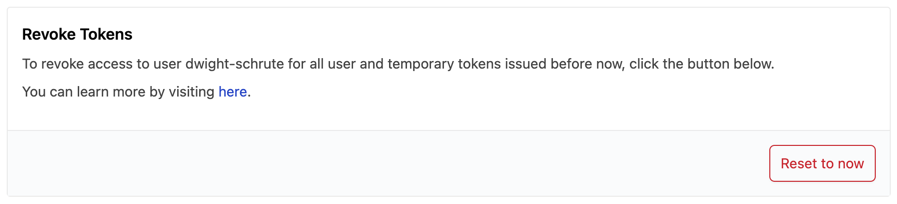
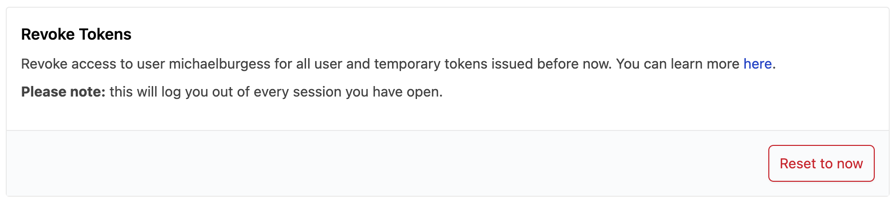
Update user docs

diff --git a/docs/cloud/profile.md b/docs/cloud/profile.md
@@ -38,7 +38,9 @@ You can deactivate or delete a token from the list by clicking the options menu 
 ## Revoking Access
 You will be able to authenticate against your account using either temporary tokens issued via console or [CLI login](/docs/reference/cli/login#steampipe-login), or with [tokens](/docs/cloud/profile#tokens) managed via your profile settings.
 
-If you wish to revoke access to your user for any currently issued token, you can do so by going to  the **Settings** page for your user, then clicking **Advanced** from the left hand menu. From here you'll find a `Revoke Tokens` section. Clicking the `Reset to now` button will revoke access to all existing temporary and user tokens.
+If you wish to revoke access to your user for all issued tokens, you can do so by going to  the **Settings** page for your user, then clicking **Advanced** from the left hand menu. From here you'll find a `Revoke Tokens` section. Clicking the `Reset to now` button will revoke access to all existing temporary and user tokens.
+
+This will also log you out of the current session and any other you have open at that stage. You will also need to re-generate any [tokens](/docs/cloud/profile#tokens) you use for API access.
 
 <img src="/images/docs/cloud/cloud-user-revoke-tokens.png" width="400pt"/>
 <br />
